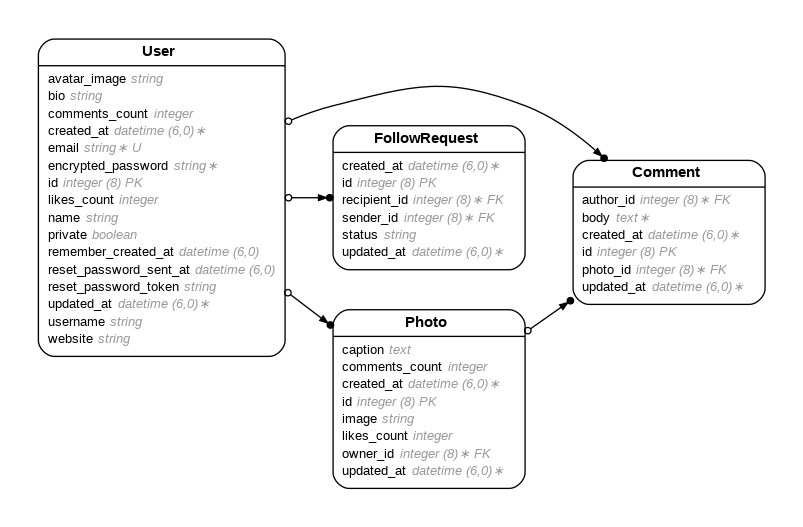
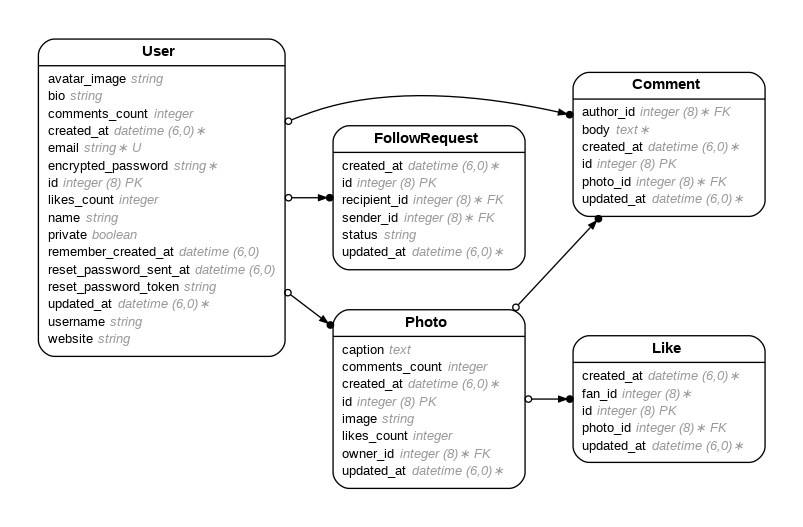
Updated the like modeals

diff --git a/app/controllers/likes_controller.rb b/app/controllers/likes_controller.rb
@@ -1,0 +1,70 @@
+class LikesController < ApplicationController
+  before_action :set_like, only: %i[ show edit update destroy ]
+
+  # GET /likes or /likes.json
+  def index
+    @likes = Like.all
+  end
+
+  # GET /likes/1 or /likes/1.json
+  def show
+  end
+
+  # GET /likes/new
+  def new
+    @like = Like.new
+  end
+
+  # GET /likes/1/edit
+  def edit
+  end
+
+  # POST /likes or /likes.json
+  def create
+    @like = Like.new(like_params)
+
+    respond_to do |format|
+      if @like.save
+        format.html { redirect_to @like, notice: "Like was successfully created." }
+        format.json { render :show, status: :created, location: @like }
+      else
+        format.html { render :new, status: :unprocessable_entity }
+        format.json { render json: @like.errors, status: :unprocessable_entity }
+      end
+    end
+  end
+
+  # PATCH/PUT /likes/1 or /likes/1.json
+  def update
+    respond_to do |format|
+      if @like.update(like_params)
+        format.html { redirect_to @like, notice: "Like was successfully updated." }
+        format.json { render :show, status: :ok, location: @like }
+      else
+        format.html { render :edit, status: :unprocessable_entity }
+        format.json { render json: @like.errors, status: :unprocessable_entity }
+      end
+    end
+  end
+
+  # DELETE /likes/1 or /likes/1.json
+  def destroy
+    @like.destroy!
+
+    respond_to do |format|
+      format.html { redirect_to likes_path, status: :see_other, notice: "Like was successfully destroyed." }
+      format.json { head :no_content }
+    end
+  end
+
+  private
+    # Use callbacks to share common setup or constraints between actions.
+    def set_like
+      @like = Like.find(params.expect(:id))
+    end
+
+    # Only allow a list of trusted parameters through.
+    def like_params
+      params.expect(like: [ :fan_id, :photo_id ])
+    end
+end

diff --git a/db/schema.rb b/db/schema.rb
@@ -10,7 +10,7 @@
 #
 # It's strongly recommended that you check this file into your version control system.
 
-ActiveRecord::Schema[8.0].define(version: 2025_04_08_162007) do
+ActiveRecord::Schema[8.0].define(version: 2025_04_08_162303) do
   # These are extensions that must be enabled in order to support this database
   enable_extension "citext"
   enable_extension "pg_catalog.plpgsql"
@@ -32,6 +32,15 @@ ActiveRecord::Schema[8.0].define(version: 2025_04_08_162007) do
     t.datetime "updated_at", null: false
     t.index ["recipient_id"], name: "index_follow_requests_on_recipient_id"
     t.index ["sender_id"], name: "index_follow_requests_on_sender_id"
+  end
+
+  create_table "likes", force: :cascade do |t|
+    t.bigint "fan_id", null: false
+    t.bigint "photo_id", null: false
+    t.datetime "created_at", null: false
+    t.datetime "updated_at", null: false
+    t.index ["fan_id"], name: "index_likes_on_fan_id"
+    t.index ["photo_id"], name: "index_likes_on_photo_id"
   end
 
   create_table "photos", force: :cascade do |t|
@@ -70,5 +79,7 @@ ActiveRecord::Schema[8.0].define(version: 2025_04_08_162007) do
   add_foreign_key "comments", "users", column: "author_id"
   add_foreign_key "follow_requests", "users", column: "recipient_id"
   add_foreign_key "follow_requests", "users", column: "sender_id"
+  add_foreign_key "likes", "photos"
+  add_foreign_key "likes", "users", column: "fan_id"
   add_foreign_key "photos", "users", column: "owner_id"
 end

diff --git a/app/models/like.rb b/app/models/like.rb
@@ -1,0 +1,24 @@
+# == Schema Information
+#
+# Table name: likes
+#
+#  id         :bigint           not null, primary key
+#  created_at :datetime         not null
+#  updated_at :datetime         not null
+#  fan_id     :bigint           not null
+#  photo_id   :bigint           not null
+#
+# Indexes
+#
+#  index_likes_on_fan_id    (fan_id)
+#  index_likes_on_photo_id  (photo_id)
+#
+# Foreign Keys
+#
+#  fk_rails_...  (fan_id => users.id)
+#  fk_rails_...  (photo_id => photos.id)
+#
+class Like < ApplicationRecord
+  belongs_to :fan, class_name: "User"
+  belongs_to :photo
+end

diff --git a/db/migrate/20250408162303_create_likes.rb b/db/migrate/20250408162303_create_likes.rb
@@ -1,0 +1,10 @@
+class CreateLikes < ActiveRecord::Migration[8.0]
+  def change
+    create_table :likes do |t|
+      t.references :fan, null: false, foreign_key: { to_table: :users }
+      t.references :photo, null: false, foreign_key: true
+
+      t.timestamps
+    end
+  end
+end

diff --git a/config/routes.rb b/config/routes.rb
@@ -1,4 +1,5 @@
 Rails.application.routes.draw do
+  resources :likes
   resources :follow_requests
   resources :comments
   resources :photos
